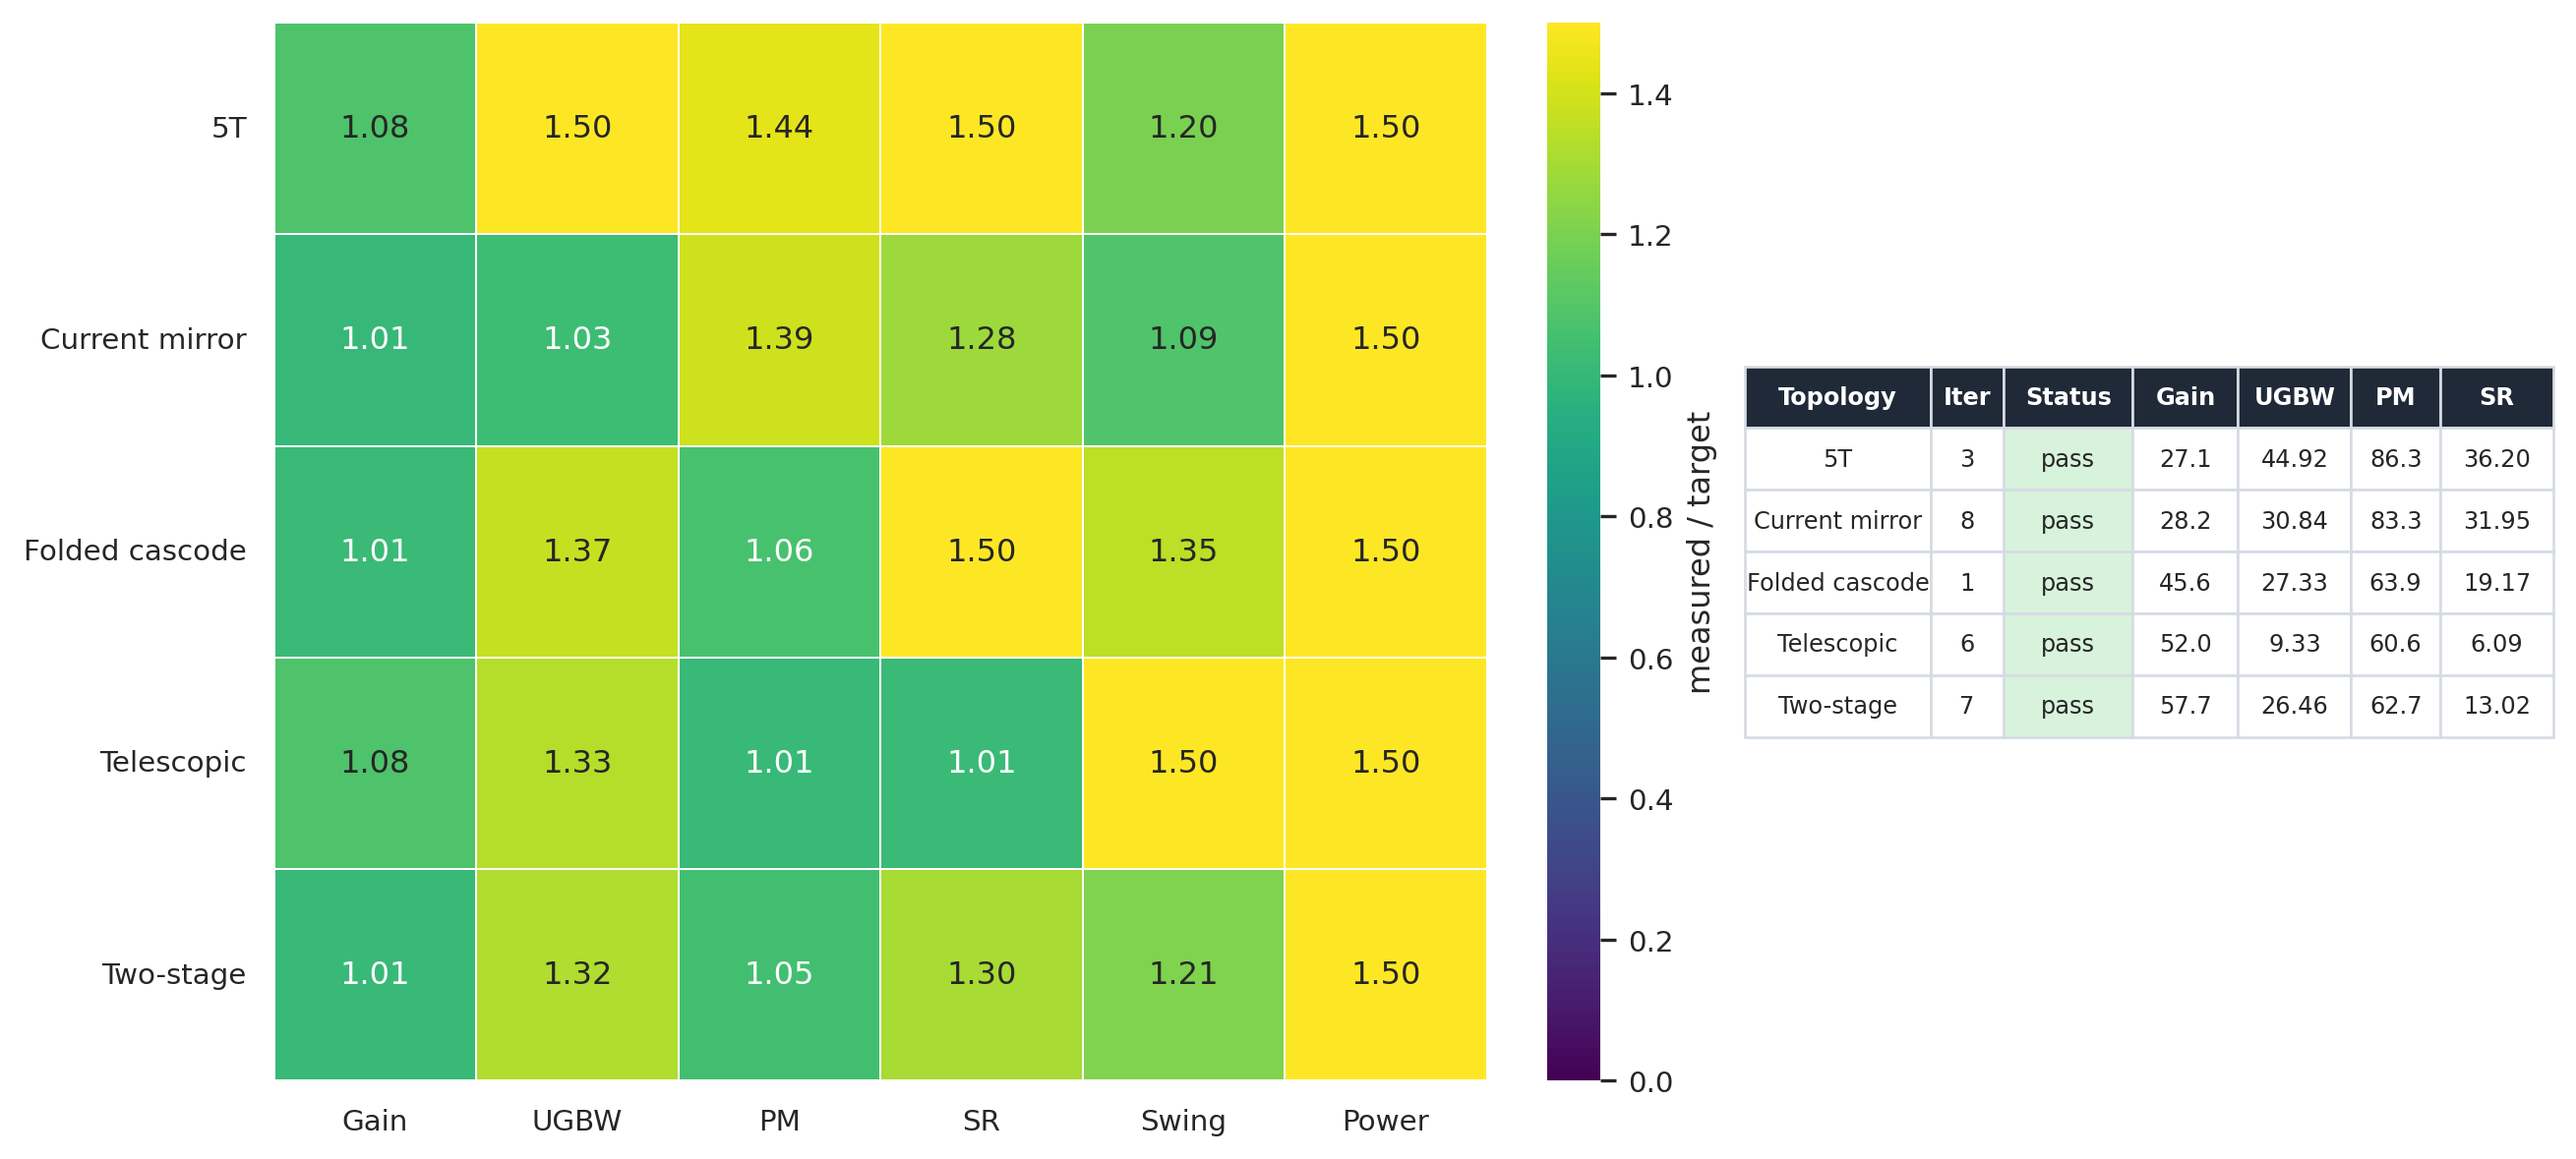
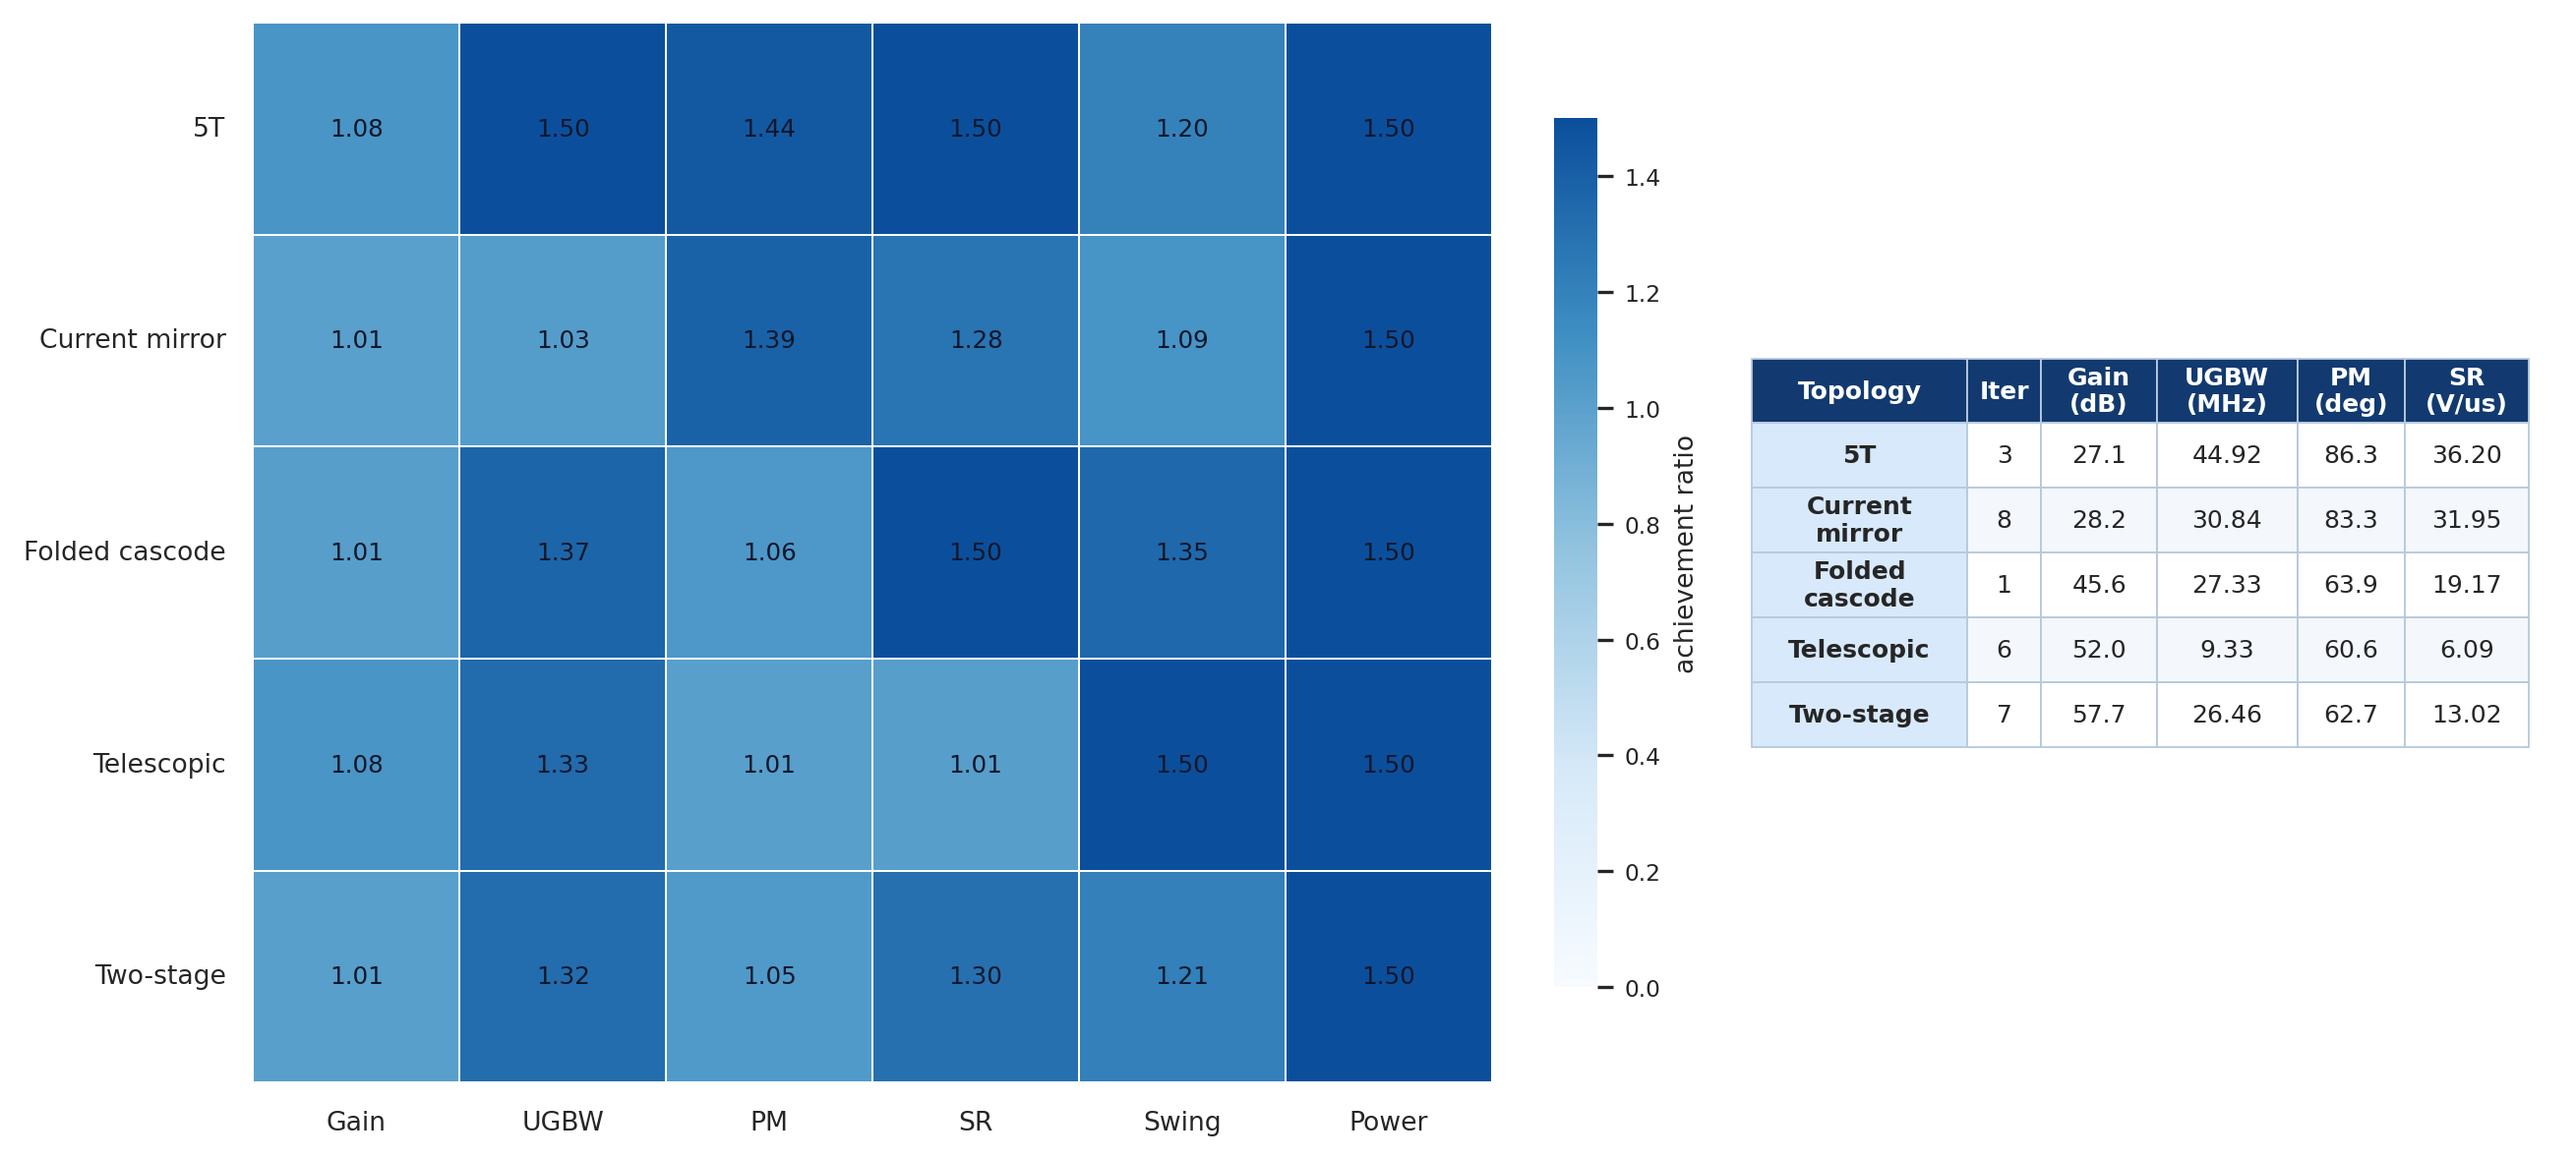
Split full-flow OTA result figures

diff --git a/scripts/plot_full_flow_results.py b/scripts/plot_full_flow_results.py
@@ -10,6 +10,7 @@ from pathlib import Path
 from typing import Any
 
 import matplotlib.pyplot as plt
+from matplotlib.colors import LinearSegmentedColormap
 import pandas as pd
 import seaborn as sns
 import yaml
@@ -80,6 +81,14 @@ METRICS = (
     ("power", "total_power", "Power", "uW"),
 )
 
+BLUE_CMAP = LinearSegmentedColormap.from_list(
+    "analogdiag_blue",
+    ["#f7fbff", "#d6e9f8", "#93c4df", "#3f8fc3", "#0b4f9c"],
+)
+HEADER_BLUE = "#123a70"
+ACCENT_BLUE = "#d7e9fb"
+GRID_BLUE = "#b7c9dc"
+
 
 def parse_args(argv: list[str] | None = None) -> argparse.Namespace:
     parser = argparse.ArgumentParser(description="Plot latest full-flow OTA reference results")
@@ -98,16 +107,25 @@ def main(argv: list[str] | None = None) -> int:
     if not rows:
         raise SystemExit("No full-flow result.json files found.")
     records = pd.DataFrame(rows)
-    fig = plot_records(records)
+    figures = {
+        "full_flow_ota_results": plot_records(records),
+        "full_flow_ota_achievement": plot_achievement_heatmap(records),
+        "full_flow_ota_summary": plot_summary_table(records),
+    }
     for out_dir in out_dirs:
         out_dir = _resolve(out_dir)
         out_dir.mkdir(parents=True, exist_ok=True)
         if args.write_csv:
             records.to_csv(out_dir / "full_flow_ota_results.csv", index=False)
         for fmt in formats:
-            fig.savefig(out_dir / f"full_flow_ota_results.{fmt}", dpi=args.dpi, bbox_inches="tight")
-    plt.close(fig)
-    print(f"Wrote full-flow OTA figure for {len(records)} topologies.")
+            for name, fig in figures.items():
+                if name == "full_flow_ota_results":
+                    fig.savefig(out_dir / f"{name}.{fmt}", dpi=args.dpi, bbox_inches="tight")
+                else:
+                    fig.savefig(out_dir / f"{name}.{fmt}", dpi=args.dpi)
+    for fig in figures.values():
+        plt.close(fig)
+    print(f"Wrote full-flow OTA figures for {len(records)} topologies.")
     return 0
 
 
@@ -154,59 +172,94 @@ def collect_rows() -> list[dict[str, Any]]:
 
 def plot_records(records: pd.DataFrame) -> plt.Figure:
     sns.set_theme(style="whitegrid", context="paper")
-    labels = [metric[2] for metric in METRICS]
-    heatmap = records.set_index("topology")[[f"ratio_{label}" for label in labels]]
-    heatmap.columns = labels
-    heatmap = heatmap.clip(upper=1.5)
 
     fig = plt.figure(figsize=(10.8, 4.8), constrained_layout=True)
     grid = fig.add_gridspec(1, 2, width_ratios=[1.35, 0.9])
     ax0 = fig.add_subplot(grid[0, 0])
     ax1 = fig.add_subplot(grid[0, 1])
 
+    _draw_achievement_heatmap(ax0, records)
+    _draw_summary_table(ax1, records)
+    return fig
+
+
+def plot_achievement_heatmap(records: pd.DataFrame) -> plt.Figure:
+    sns.set_theme(style="whitegrid", context="paper")
+    fig, ax = plt.subplots(figsize=(5.25, 3.85), constrained_layout=True)
+    _draw_achievement_heatmap(ax, records)
+    return fig
+
+
+def plot_summary_table(records: pd.DataFrame) -> plt.Figure:
+    sns.set_theme(style="whitegrid", context="paper")
+    fig, ax = plt.subplots(figsize=(5.25, 3.85), constrained_layout=True)
+    _draw_summary_table(ax, records)
+    return fig
+
+
+def _achievement_frame(records: pd.DataFrame) -> pd.DataFrame:
+    labels = [metric[2] for metric in METRICS]
+    heatmap = records.set_index("topology")[[f"ratio_{label}" for label in labels]]
+    heatmap.columns = labels
+    return heatmap.clip(upper=1.5)
+
+
+def _draw_achievement_heatmap(ax: plt.Axes, records: pd.DataFrame) -> None:
     sns.heatmap(
-        heatmap,
+        _achievement_frame(records),
         annot=True,
         fmt=".2f",
-        cmap="viridis",
+        cmap=BLUE_CMAP,
         vmin=0,
         vmax=1.5,
         linewidths=0.6,
         linecolor="white",
-        cbar_kws={"label": "measured / target"},
-        ax=ax0,
+        annot_kws={"fontsize": 7.4, "color": "#0f172a"},
+        cbar_kws={"label": "achievement ratio", "shrink": 0.82},
+        ax=ax,
     )
-    ax0.set_xlabel("")
-    ax0.set_ylabel("")
-    ax0.tick_params(axis="x", rotation=0)
-    ax0.tick_params(axis="y", rotation=0)
+    ax.set_xlabel("")
+    ax.set_ylabel("")
+    ax.tick_params(axis="x", rotation=0, labelsize=8)
+    ax.tick_params(axis="y", rotation=0, labelsize=8)
+    ax.collections[0].colorbar.ax.tick_params(labelsize=7)
+    ax.collections[0].colorbar.ax.yaxis.label.set_size(8)
 
-    display = records[["topology", "iteration", "status", "Gain", "UGBW", "PM", "SR"]].copy()
-    display["row"] = list(range(len(display)))
-    ax1.axis("off")
-    table = ax1.table(
-        cellText=display[["topology", "iteration", "status", "Gain", "UGBW", "PM", "SR"]].values,
-        colLabels=["Topology", "Iter", "Status", "Gain", "UGBW", "PM", "SR"],
+
+def _draw_summary_table(ax: plt.Axes, records: pd.DataFrame) -> None:
+    display = records[["topology", "iteration", "Gain", "UGBW", "PM", "SR"]].copy()
+    display["topology"] = display["topology"].replace(
+        {
+            "Current mirror": "Current\nmirror",
+            "Folded cascode": "Folded\ncascode",
+        }
+    )
+    ax.axis("off")
+    table = ax.table(
+        cellText=display[["topology", "iteration", "Gain", "UGBW", "PM", "SR"]].values,
+        colLabels=["Topology", "Iter", "Gain\n(dB)", "UGBW\n(MHz)", "PM\n(deg)", "SR\n(V/us)"],
         loc="center",
         cellLoc="center",
         colLoc="center",
-        colWidths=[0.23, 0.09, 0.16, 0.13, 0.14, 0.11, 0.14],
+        colWidths=[0.26, 0.09, 0.14, 0.17, 0.13, 0.15],
     )
     table.auto_set_font_size(False)
-    table.set_fontsize(7.2)
-    table.scale(1.0, 1.55)
+    table.set_fontsize(7.5)
+    table.scale(1.0, 1.62)
     for (row, col), cell in table.get_celld().items():
-        cell.set_edgecolor("#d6dbe3")
+        cell.set_edgecolor(GRID_BLUE)
+        cell.set_linewidth(0.55)
         if row == 0:
-            cell.set_facecolor("#1f2937")
+            cell.set_facecolor(HEADER_BLUE)
             cell.get_text().set_color("white")
             cell.get_text().set_weight("bold")
-        elif col == 2 and cell.get_text().get_text() == "pass":
-            cell.set_facecolor("#d8f3dc")
-        elif col == 2:
-            cell.set_facecolor("#ffe3e3")
-
-    return fig
+        elif row % 2 == 0:
+            cell.set_facecolor("#f4f8fc")
+        else:
+            cell.set_facecolor("white")
+        if row > 0 and col == 0:
+            cell.set_facecolor(ACCENT_BLUE)
+            cell.get_text().set_weight("bold")
 
 
 def _candidate_results(patterns: tuple[str, ...]) -> list[Path]:
